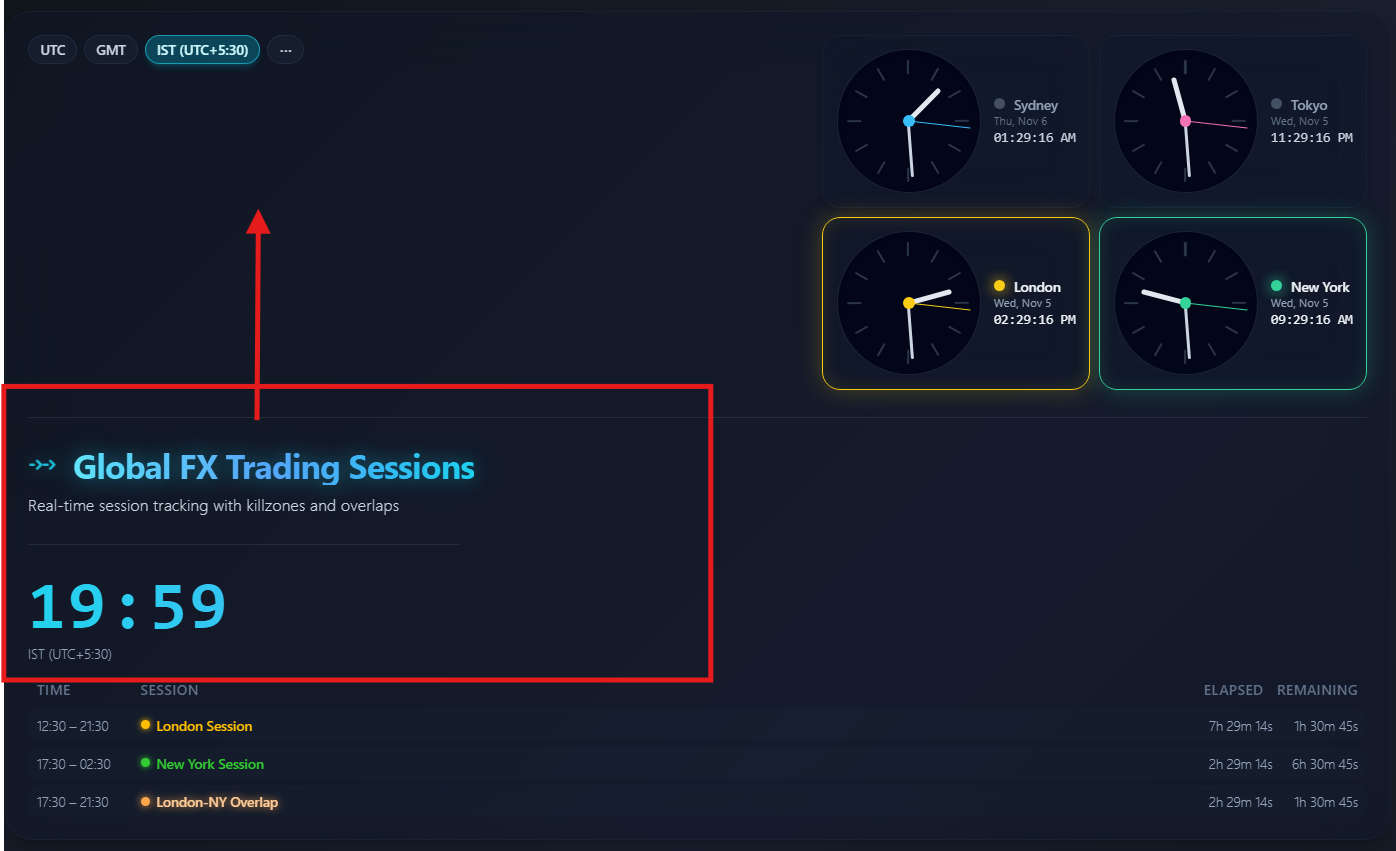
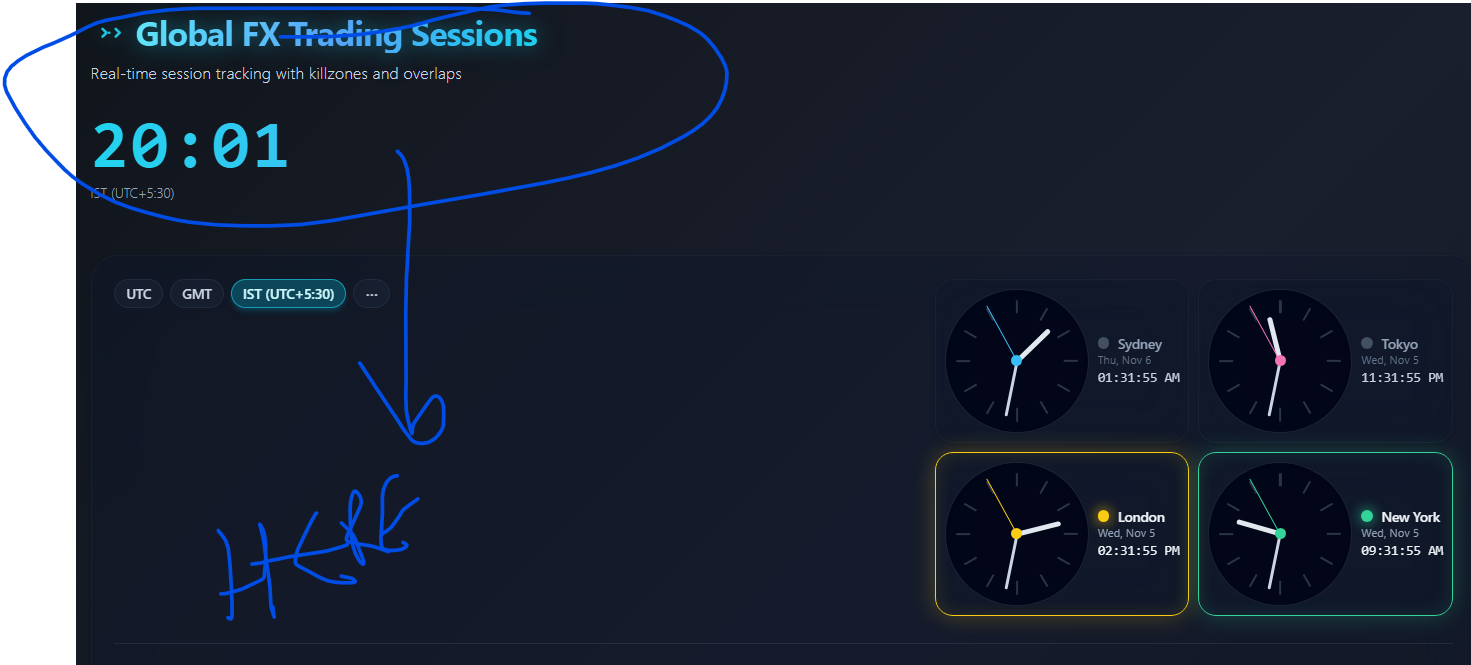
ui: restructure layout into two-column header design
- Left section: bordered card with title, subtitle, big time display, and timezone selector
- Right section: session clocks in 2x2 compact grid
- Both sections displayed side-by-side in header row
- Sessions list in separate card below
- Improved visual balance and modern two-column layout
- Matches user's design specification exactly

🤖 Generated with Claude Code

diff --git a/App.tsx b/App.tsx
@@ -264,65 +264,61 @@ const App: React.FC = () => {
       backdropFilter: 'blur(10px)'
     }}>
       <main className="w-full max-w-7xl mx-auto p-4 sm:p-6 flex flex-col items-center">
-        {/* TITLE, SUBTITLE, AND TIME DISPLAY - ABOVE CONTROL CARD */}
-        <div className="w-full mb-6">
-          {/* Title and Subtitle */}
-          <div className="flex items-center gap-3 mb-2">
-            {showPWAButton && !isInstalled ? (
-              <button
-                onClick={handleInstallClick}
-                className="flex items-center justify-center w-6 h-6 sm:w-7 sm:h-7 flex-shrink-0 cursor-pointer transition-all duration-300 hover:scale-110 hover:drop-shadow-lg active:scale-95"
+        {/* HEADER ROW: Left Section (Title/Time/Timezone) + Right Section (Clocks) */}
+        <div className="w-full mb-6 flex gap-6">
+          {/* LEFT SECTION: Title, Subtitle, Time, and Timezone Selector */}
+          <div className="flex-1 bg-slate-900/40 backdrop-blur-xl border border-slate-800/50 rounded-3xl p-4 sm:p-5 shadow-lg shadow-black/20">
+            {/* Title and Subtitle */}
+            <div className="flex items-center gap-3 mb-2">
+              {showPWAButton && !isInstalled ? (
+                <button
+                  onClick={handleInstallClick}
+                  className="flex items-center justify-center w-6 h-6 sm:w-7 sm:h-7 flex-shrink-0 cursor-pointer transition-all duration-300 hover:scale-110 hover:drop-shadow-lg active:scale-95"
+                  style={{
+                    filter: 'drop-shadow(0 0 8px rgba(34, 211, 238, 0.4))',
+                  }}
+                  onMouseEnter={(e) => {
+                    e.currentTarget.style.filter = 'drop-shadow(0 0 16px rgba(34, 211, 238, 0.8))';
+                  }}
+                  onMouseLeave={(e) => {
+                    e.currentTarget.style.filter = 'drop-shadow(0 0 8px rgba(34, 211, 238, 0.4))';
+                  }}
+                  title="Click to install the app"
+                  aria-label="Download and install app"
+                >
+                  <IconTradingFlow className="w-full h-full text-cyan-400" />
+                </button>
+              ) : (
+                <div className="w-6 h-6 sm:w-7 sm:h-7 flex-shrink-0" style={{
+                  filter: 'drop-shadow(0 0 8px rgba(34, 211, 238, 0.4))'
+                }}>
+                  <IconTradingFlow className="w-full h-full text-cyan-400" />
+                </div>
+              )}
+              <h1
+                className="text-2xl sm:text-3xl font-bold tracking-tight bg-gradient-to-r from-cyan-300 via-blue-400 to-cyan-400 bg-clip-text text-transparent"
                 style={{
-                  filter: 'drop-shadow(0 0 8px rgba(34, 211, 238, 0.4))',
+                  textShadow: '0 0 30px rgba(34, 211, 238, 0.3), 0 0 60px rgba(59, 130, 246, 0.2)',
+                  filter: 'drop-shadow(0 0 8px rgba(34, 211, 238, 0.25))'
                 }}
-                onMouseEnter={(e) => {
-                  e.currentTarget.style.filter = 'drop-shadow(0 0 16px rgba(34, 211, 238, 0.8))';
-                }}
-                onMouseLeave={(e) => {
-                  e.currentTarget.style.filter = 'drop-shadow(0 0 8px rgba(34, 211, 238, 0.4))';
-                }}
-                title="Click to install the app"
-                aria-label="Download and install app"
               >
-                <IconTradingFlow className="w-full h-full text-cyan-400" />
-              </button>
-            ) : (
-              <div className="w-6 h-6 sm:w-7 sm:h-7 flex-shrink-0" style={{
-                filter: 'drop-shadow(0 0 8px rgba(34, 211, 238, 0.4))'
-              }}>
-                <IconTradingFlow className="w-full h-full text-cyan-400" />
-              </div>
-            )}
-            <h1
-              className="text-2xl sm:text-3xl font-bold tracking-tight bg-gradient-to-r from-cyan-300 via-blue-400 to-cyan-400 bg-clip-text text-transparent"
-              style={{
-                textShadow: '0 0 30px rgba(34, 211, 238, 0.3), 0 0 60px rgba(59, 130, 246, 0.2)',
-                filter: 'drop-shadow(0 0 8px rgba(34, 211, 238, 0.25))'
-              }}
-            >
-              Global FX Trading Sessions
-            </h1>
-          </div>
-          <p className="text-xs sm:text-sm text-slate-300 font-light tracking-wide max-w-sm mb-6">
-            Real-time session tracking with killzones and overlaps
-          </p>
-
-          {/* Big Time Display */}
-          <div className="mb-6">
-            <div className="text-5xl sm:text-6xl font-bold bg-gradient-to-r from-cyan-400 via-blue-400 to-green-400 bg-clip-text text-transparent tracking-wider font-mono">
-              {timeFormatted}
+                Global FX Trading Sessions
+              </h1>
             </div>
-            <div className="text-xs text-slate-400 font-light mt-1">{selectedTimezone.label}</div>
-          </div>
-        </div>
+            <p className="text-xs sm:text-sm text-slate-300 font-light tracking-wide mb-4">
+              Real-time session tracking with killzones and overlaps
+            </p>
 
-        {/* CONTROL CARD: Timezone Selector + Session Clocks + Live Sessions */}
-        <div className="w-full mb-6">
-          <div className="bg-slate-900/40 backdrop-blur-xl border border-slate-800/50 rounded-3xl p-4 sm:p-5 shadow-lg shadow-black/20">
-            {/* TOP ROW: Timezone Selector (Left) + Session Clocks (Right) */}
-            <div className="flex items-start justify-between gap-4 mb-6 pb-6 border-b border-slate-700/50">
-              {/* TOP LEFT: Timezone Selector */}
-              <div className="flex flex-wrap gap-1.5 items-start">
+            {/* Big Time Display */}
+            <div className="mb-6">
+              <div className="text-5xl sm:text-6xl font-bold bg-gradient-to-r from-cyan-400 via-blue-400 to-green-400 bg-clip-text text-transparent tracking-wider font-mono">
+                {timeFormatted}
+              </div>
+              <div className="text-xs text-slate-400 font-light mt-1">{selectedTimezone.label}</div>
+            </div>
+
+            {/* Timezone Selector */}
+            <div className="flex flex-wrap gap-1.5">
                 {displayedTimezones.map(tz => (
                   <button
                     key={tz.label}
@@ -363,12 +359,18 @@ const App: React.FC = () => {
                   )}
                 </div>
               </div>
-
-              {/* TOP RIGHT: Session Clocks */}
-              <div className="flex justify-end">
-                <SessionClocks compact sessionStatus={sessionStatus} />
-              </div>
             </div>
+          </div>
+
+          {/* RIGHT SECTION: Session Clocks */}
+          <div className="flex justify-end">
+            <SessionClocks compact sessionStatus={sessionStatus} />
+          </div>
+        </div>
+
+        {/* SESSIONS LIST CARD */}
+        <div className="w-full mb-6">
+          <div className="bg-slate-900/40 backdrop-blur-xl border border-slate-800/50 rounded-3xl p-4 sm:p-5 shadow-lg shadow-black/20">
 
             {/* Live Sessions List */}
             {activeSessions.length > 0 && (
